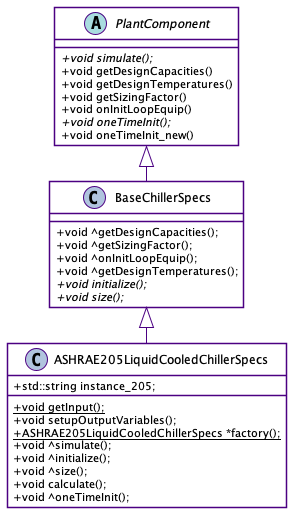
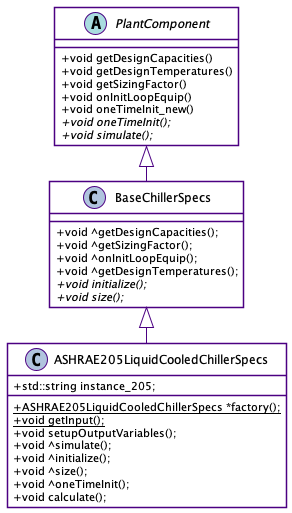
Clean up diagram.

Changed region(s): [[0.0616, 0.7797, 0.9555, 0.8733], [0.2158, 0.0936, 0.8014, 0.2807], [0.1541, 0.9357, 0.4315, 0.9981]]

diff --git a/design/FY2022/NFP-ASHRAE205-Chillers.md b/design/FY2022/NFP-ASHRAE205-Chillers.md
@@ -13,17 +13,17 @@ EnergyPlus will implement a new Chiller object deriving from BaseChillerSpecs, w
 
 ![ASHRAE205LiquidCooledChillerSpecs](NFP-ASHRAE205-Chillers.png)
 
-Standard 205 representations are stored in either human-readable JSON or serialized CBOR format. The new libtk205 (Toolkit 205) library supports all operations relating to opening and parsing the representation file, and will link with EnergyPlus to populate the new EP Chiller object.
+Standard 205 representations are stored in either human-readable JSON or serialized CBOR format. The new libtk205 (Toolkit 205) library supports all operations relating to opening and parsing the representation file, and will link with EnergyPlus to populate the new EP Chiller object. 
 
 Critically, integrating the Toolkit 205 library will introduce *Git submodules* into the EnergyPlus source hierarchy. A typical implementation would simply add the entire libtk205 repository as a subdirectory of `/third_party`, where it would be built and linked just as existing third-party libraries are. The main CMakeLists.txt file will be modified to automatically pull this submodule repository whenever EnergyPlus is cloned, so the dependency stays in sync with EnergyPlus with no additional user input.
 
-### Error conditions / Validation
-
 ### Calculations
 
-Performance calculation in Sim function
+One of the advantages offered by ASHRAE Standard 205 is the available operating conditions of equipment must be provided explicitly in a representation, and equipment performance is interpolated within the closest available data to the operating point, rather than extracted from a global theoretical curve. This performance calculation will be embedded in the `simulate()` function of our `ASHRAE205LiquidCooledChillerSpecs` class.
 
-Scaling outputs from files for other-sized chillers
+@@@ Scaling outputs from files for other-sized chillers
+
+### Error conditions / Validation
 
 ## Testing
 
@@ -67,7 +67,7 @@ Add new object `Chillers:ASHRAE205`:
        \minimum> 0.0
 -->
 ```
-Chiller:ASHRAE205,
+Chiller:ASHRAE205LiquidCooled,
    \memo @@@
   A1 , \field Name
        \type alpha
